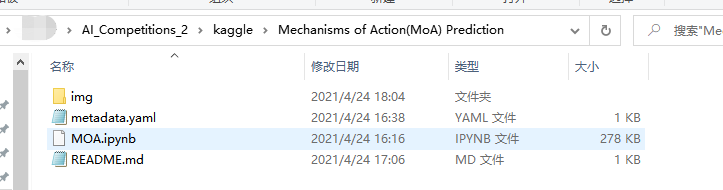
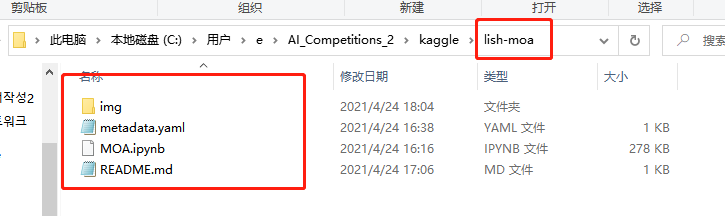
change3

diff --git a/Upload Kaggle Material.md b/Upload Kaggle Material.md
@@ -44,7 +44,7 @@ git clone https://github.com/shengmincui/AI_Competitions_2.git
 
 ![](./img/kagglefile.jpg)
 
-1. 将需要提交的所有文件放在一个文件夹里，命名为kaggle比赛的名字
+1. 将需要提交的所有文件放在一个文件夹里，命名为kaggle比赛的ID(注意：ID不等于比赛名字，ID可以在对应URL中找到)
 
    ![projectfile](./img/projectfile.png)
 
